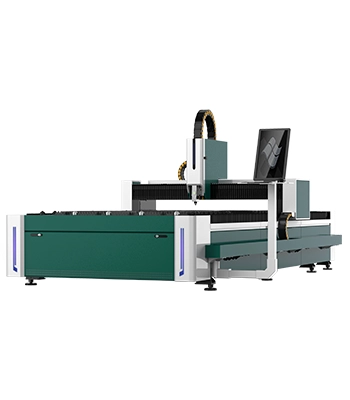
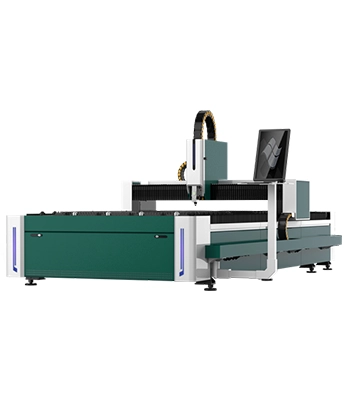
1

diff --git a/测试.html b/测试.html
@@ -596,7 +596,7 @@
       .product-item p {
         font-size: 16px; /* 字号比下拉菜单卡片大，突出显示 */
         font-weight: 300; /* 偏细字体 */
-        color: #1d1d1f; /* 深灰文字，与背景区分 */
+        color: #f5f5f7; /* 深灰文字，与背景区分 */
         margin-top: 16px; /* 图片与文字的间距 */
         line-height: 1.4; /* 行高，提升可读性 */
         padding: 0 4px; /* 左右留白，避免文字超出 */
@@ -2024,10 +2024,10 @@
             <!-- 原有所有product-item卡片保持不变，无需修改 -->
             <div class="product-item" data-tab="board">
               <img
-                src="https://picsum.photos/400/300?random=1"
-                alt="板材切割机1"
+                src="../senrytech.github.io/img/index/product/laser-sheet-cutting/a/senrytech-a-sheet-cutting.webp"
+                alt="senrytech a laser sheet cutting"
               />
-              <p>板材切割机 A</p>
+              <p>Senrytech A</p>
               <div class="info-btn"></div>
               <!-- 卡片内圆形箭头（关键元素） -->
             </div>
